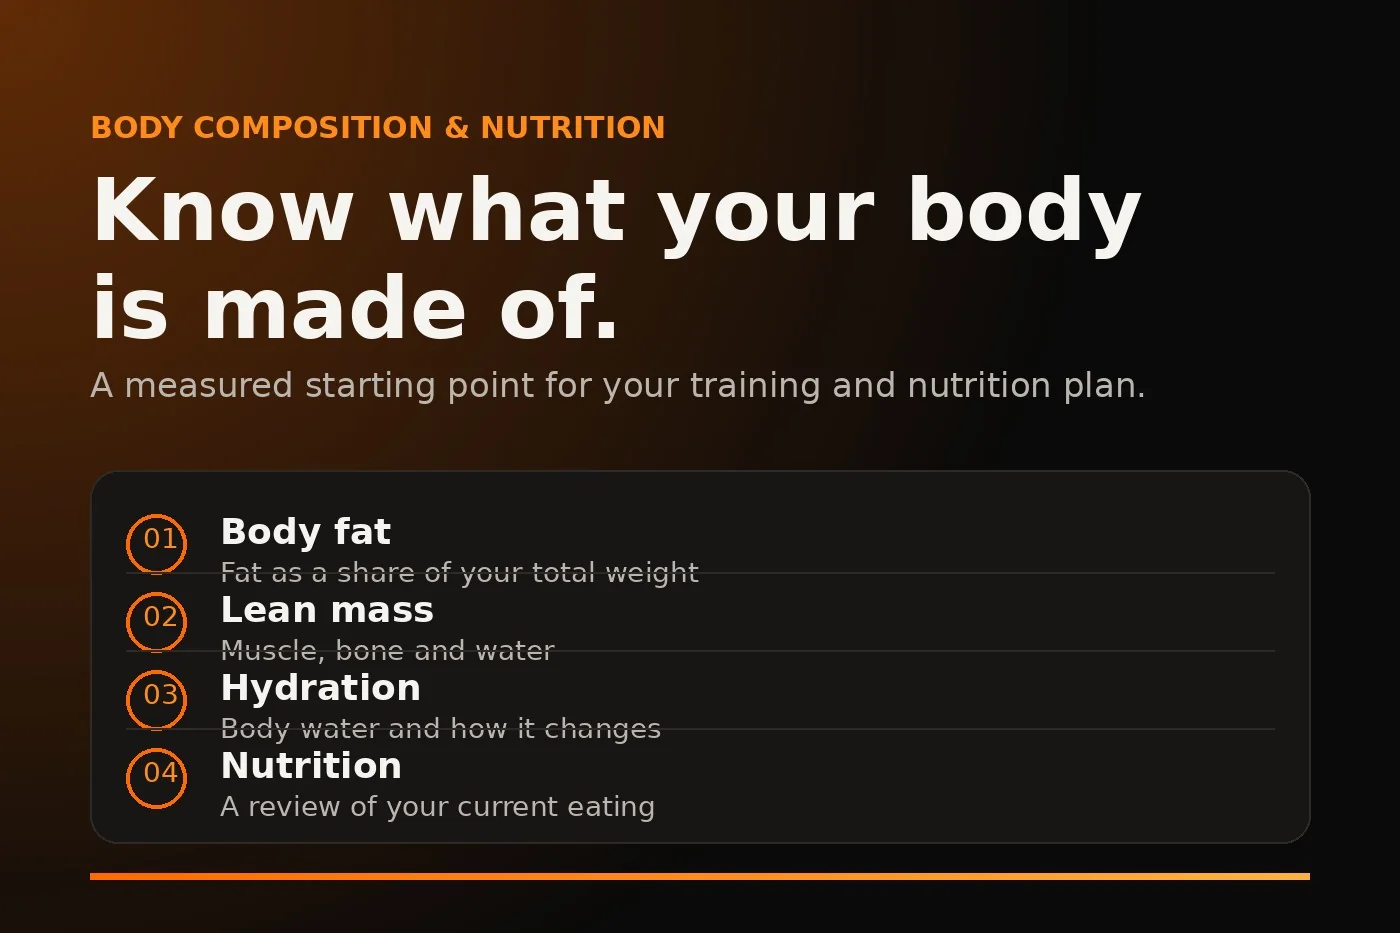
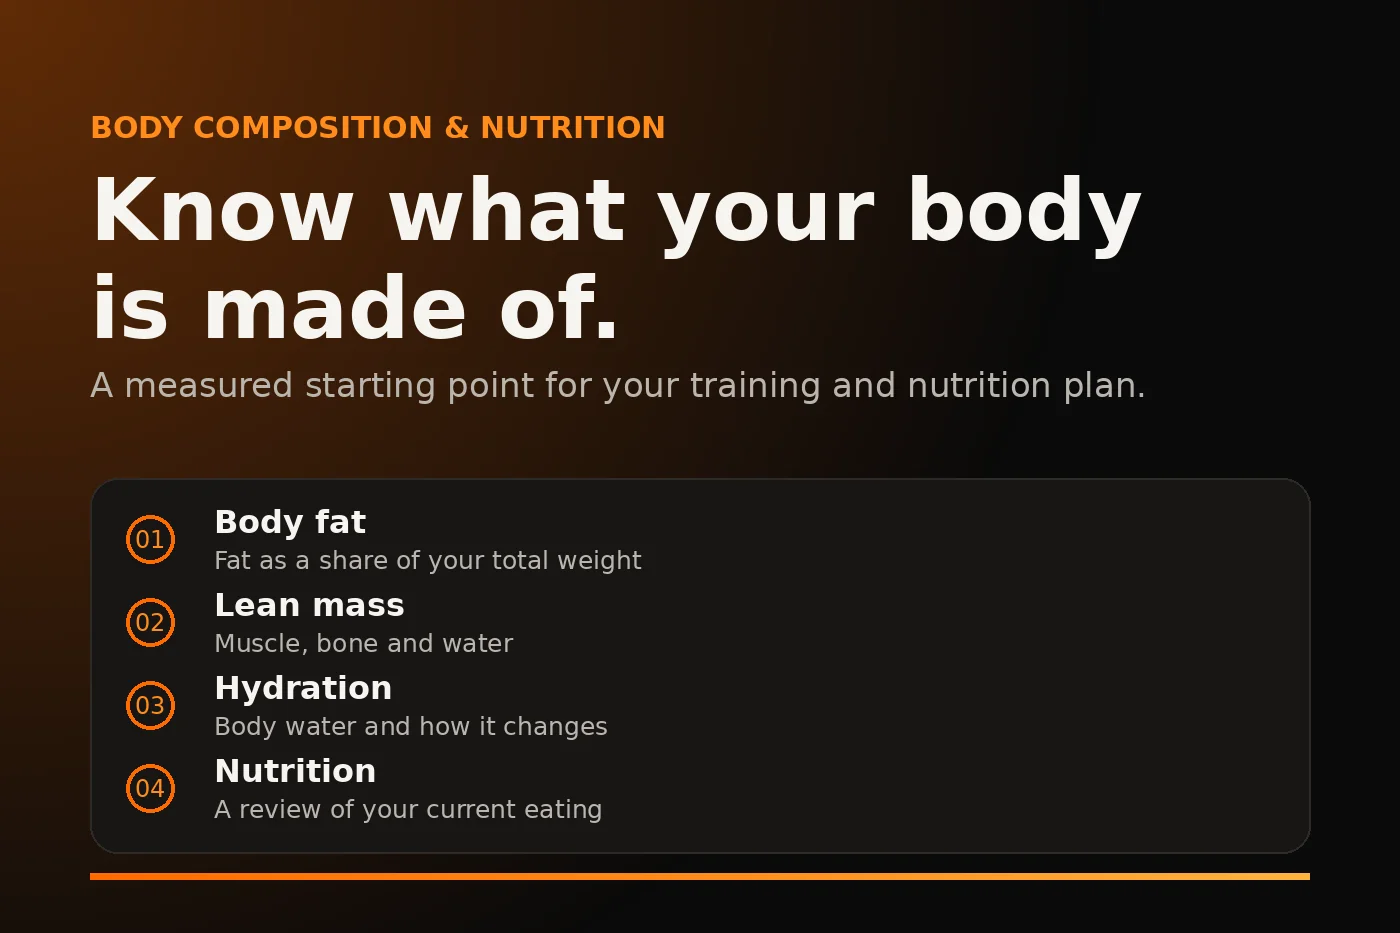
image updates

Changed region(s): [[0.0614, 0.4973, 0.4914, 0.9014]]

diff --git a/assets/styles.css b/assets/styles.css
@@ -131,7 +131,7 @@ section.alt{background:var(--bg2);border-block:1px solid var(--line)}
 .checks{list-style:none;padding:0;margin:0 0 1.2em;display:grid;gap:.55rem}
 .checks li{padding-left:1.9rem;position:relative}
 .checks li::before{content:"";position:absolute;left:0;top:.5em;width:.95rem;height:.5rem;border-left:3px solid var(--a2);border-bottom:3px solid var(--a2);transform:rotate(-45deg)}
-.two{display:grid;gap:2.5rem;align-items:center}
+.two{display:grid;gap:2.5rem;align-items:start}
 @media (min-width:900px){.two{grid-template-columns:1fr 1fr}.two.wide-left{grid-template-columns:1.25fr .75fr}}
 .figure{position:relative;isolation:isolate;margin:0}
 .figure::before{content:"";position:absolute;inset:-8% 0 auto auto;width:70%;aspect-ratio:1;background:radial-gradient(closest-side,rgba(255,106,0,.4),transparent);z-index:-1;filter:blur(8px)}
@@ -140,7 +140,7 @@ section.alt{background:var(--bg2);border-block:1px solid var(--line)}
 .figure figcaption{font-size:.9rem;color:var(--muted);margin-top:.5rem}
 .facts{display:grid;gap:1rem;grid-template-columns:repeat(auto-fit,minmax(8.5rem,1fr));margin:1.25rem 0 0;padding:0;list-style:none}
 .facts li{background:var(--surface);border:1px solid var(--line);border-radius:18px;padding:1rem 1.1rem}
-.facts b{display:block;font-size:2rem;line-height:1.05;letter-spacing:-.03em;font-weight:900;background:var(--grad);-webkit-background-clip:text;background-clip:text;color:transparent}
+.facts b{display:block;font-size:1.6rem;line-height:1.05;letter-spacing:-.03em;font-weight:900;background:var(--grad);-webkit-background-clip:text;background-clip:text;color:transparent}
 .facts span{font-size:.9rem;color:var(--muted)}
 
 /* Price cards */

diff --git a/index.html b/index.html
@@ -73,7 +73,7 @@
 <div class="prose">
 <p class="eyebrow">Your trainer</p>
 <h2 id="why-h">Why train with Jan</h2>
-<p>I’m a sports scientist as well as a trainer. My approach combines exercise science, practical coaching and nutrition, because lasting change needs all three. I also keep studying current research so what I teach stays up to date.</p>
+<p>I’m a sports scientist and personal trainer with a holistic view of health. My approach combines exercise science, practical coaching and nutrition, because lasting change needs all three. I keep studying current research so that what I teach stays up to date and grounded in evidence.</p><p>Outside the gym, I’m fascinated by longevity and biohacking, and I test much of what I learn on my own training, recovery and sleep first. Movement, nutrition, rest and mindset all shape how we age, so I believe in an all-round approach rather than a single quick fix.</p><p>I’m also an international-level dancer with more than 13 years of experience. I founded Bristol Bachata, one of the UK’s largest bachata schools, and teach workshops across Dubai, Greece, Turkey and beyond. Through movement and community, I also offer acro yoga and Thai yoga massage.</p>
 <ul class="checks">
 <li>BSc in Sports and Exercise Science</li>
 <li>Level 3 personal trainer, accredited by the Register of Exercise Professionals</li>
